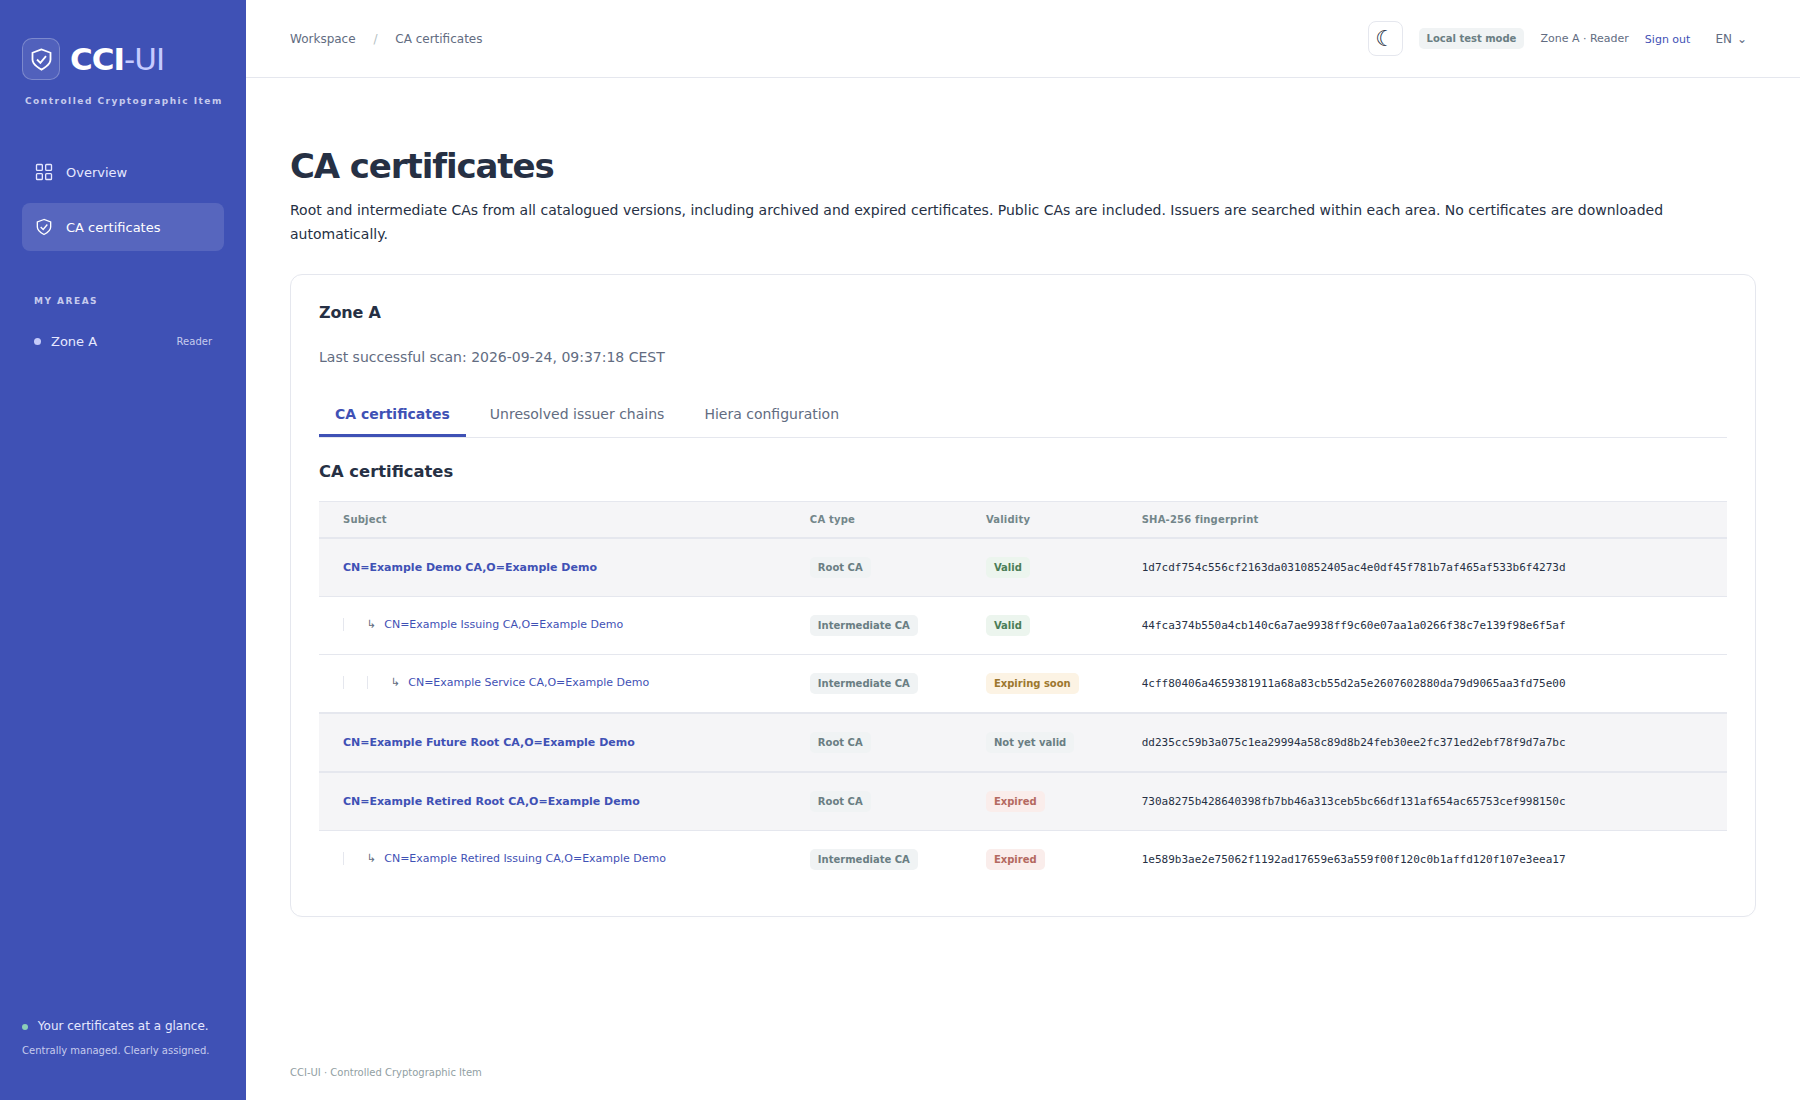
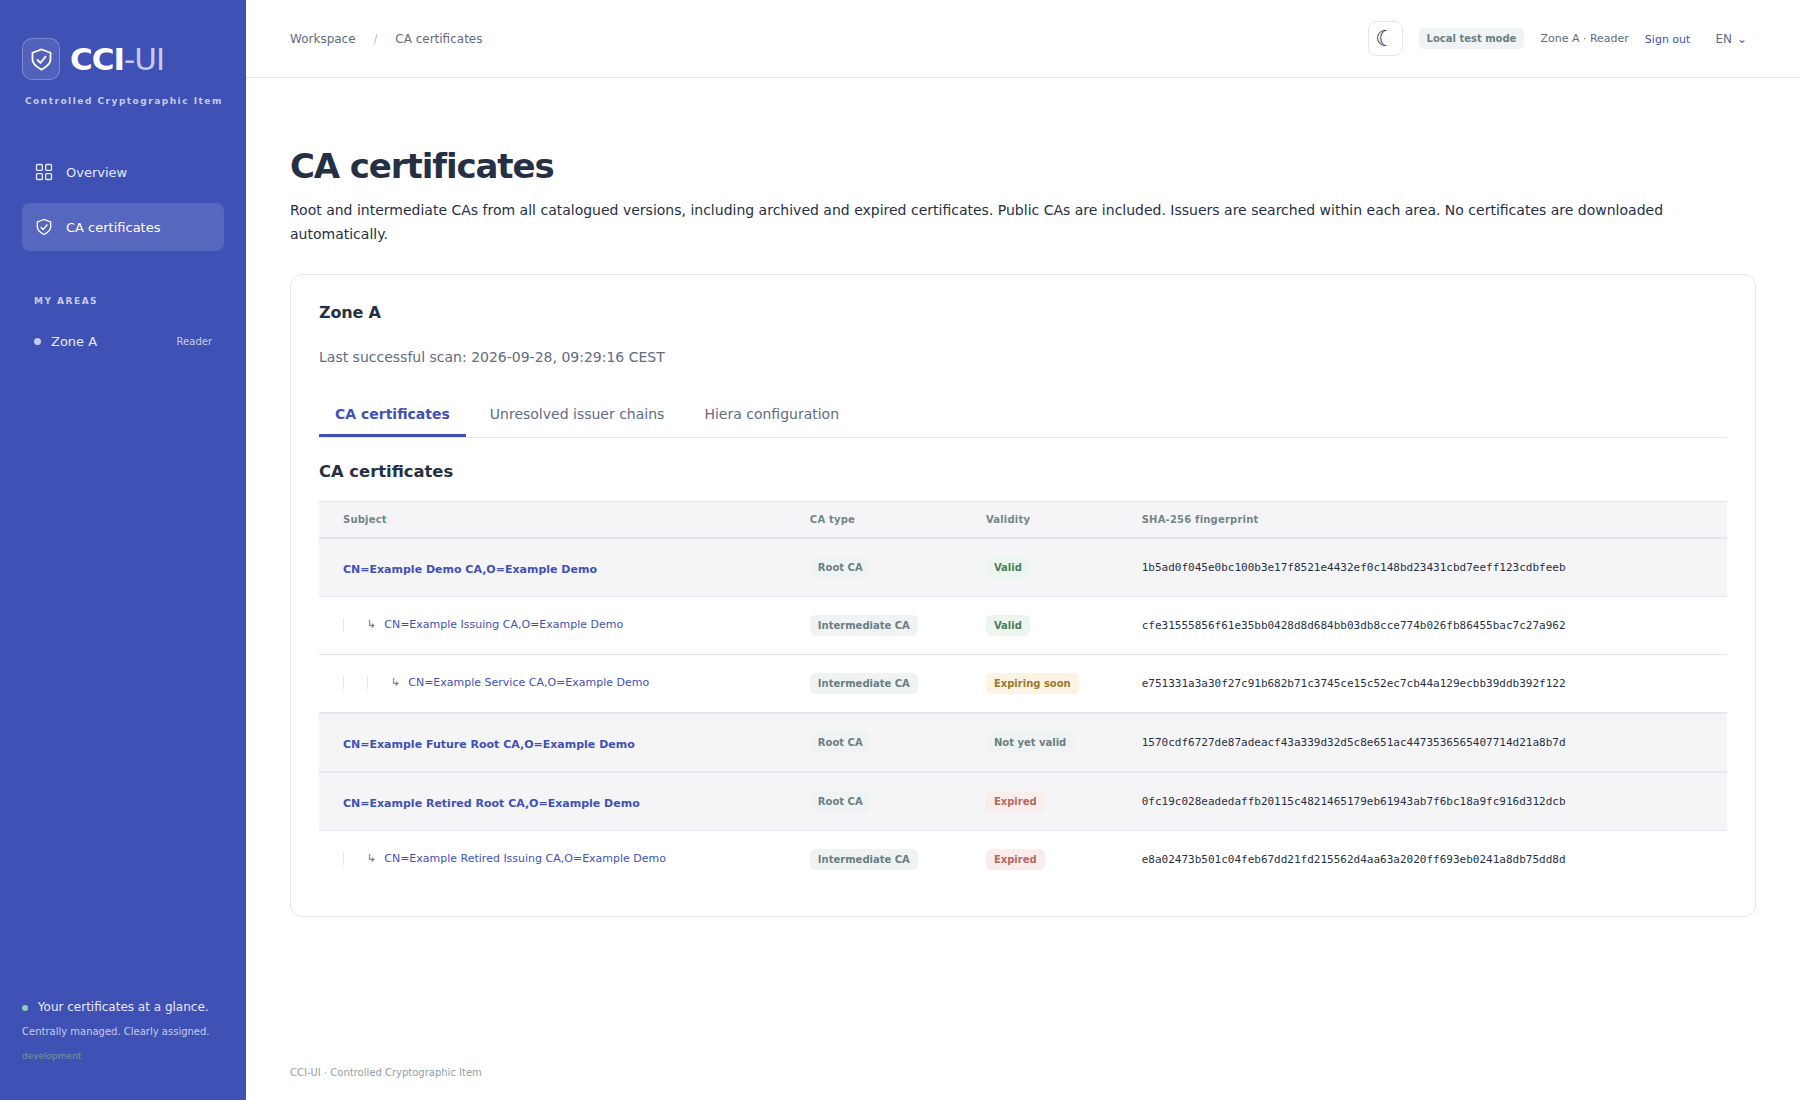
feat(certificates): configure expiry warnings with a 10-day default

diff --git a/test/integration/certificate_expiry_test.rb b/test/integration/certificate_expiry_test.rb
@@ -1,0 +1,53 @@
+# frozen_string_literal: true
+
+require "test_helper"
+
+class CertificateExpiryTest < ActionDispatch::IntegrationTest
+  setup do
+    @previous = ENV.fetch("CCI_CERTIFICATE_EXPIRY_WARNING_DAYS", nil)
+    ENV.delete("CCI_CERTIFICATE_EXPIRY_WARNING_DAYS")
+  end
+
+  teardown do
+    ENV["CCI_CERTIFICATE_EXPIRY_WARNING_DAYS"] = @previous
+  end
+
+  test "warning period defaults and invalid configuration" do
+    assert_equal 10, CertificateExpiryConfiguration.warning_days({})
+    assert_equal 10, CertificateExpiryConfiguration.warning_days("CCI_CERTIFICATE_EXPIRY_WARNING_DAYS" => " ")
+    %w[0 -1 1.5 invalid].each do |value|
+      assert_raises(ArgumentError) do
+        CertificateExpiryConfiguration.warning_days("CCI_CERTIFICATE_EXPIRY_WARNING_DAYS" => value)
+      end
+    end
+  end
+
+  test "badges search statistics and translations share the configured warning period" do
+    travel_to Time.zone.local(2026, 9, 28, 12) do
+      post local_login_path, params: { identity: "zone_a_reader" }
+      record = store(issue.first)
+      record.update!(not_before: 1.day.ago, not_after: 15.days.from_now)
+      assert_equal "valid", record.status_key
+      assert_empty CertificateSearch.call(Certificate.all, status: "soon")
+      get certificates_path
+      assert_select ".stat-card small", text: "Innerhalb der nächsten 10 Tage"
+
+      ENV["CCI_CERTIFICATE_EXPIRY_WARNING_DAYS"] = "20"
+      assert_equal "expiring", record.status_key
+      assert_equal [record.id], CertificateSearch.call(Certificate.all, status: "soon").pluck(:id)
+      get certificates_path
+      assert_select ".stat-card", text: /Läuft bald ab\s*1\s*Innerhalb der nächsten 20 Tage/
+      get certificates_path, headers: { "HTTP_ACCEPT_LANGUAGE" => "en" }
+      assert_select ".stat-card small", text: "Within the next 20 days"
+
+      record.update!(not_after: 20.days.from_now)
+      assert_equal "valid", record.status_key
+      assert_empty CertificateSearch.call(Certificate.all, status: "soon")
+      record.update!(not_after: Time.current)
+      assert_equal "expired", record.status_key
+      record.update!(not_before: 1.day.from_now, not_after: 2.days.from_now)
+      assert_equal "future", record.status_key
+      assert_empty CertificateSearch.call(Certificate.all, status: "soon")
+    end
+  end
+end

diff --git a/app/controllers/certificates_controller.rb b/app/controllers/certificates_controller.rb
@@ -5,8 +5,7 @@ class CertificatesController < ApplicationController
   def index
     visible = Certificate.visible_to(current_identity)
     @stats = { total: visible.where(active: true, archived: false).count,
-               expiring: visible.where(active: true, archived: false).where("not_after > ? AND not_after < ?", Time.current,
-                 30.days.from_now).count,
+               expiring: CertificateSearch.filter_validity(visible.where(active: true, archived: false), "soon").count,
                expired: visible.where(active: true, archived: false).where("not_after <= ?", Time.current).count }
     results = CertificateSearch.call(visible, params)
     @total = results.count

diff --git a/script/screenshots/seed.rb b/script/screenshots/seed.rb
@@ -96,7 +96,7 @@ abort "Demo host mapping failed" unless portal.reload.puppetdb_hosts.size == 3
 puts "Synthetic screenshot inventory ready: #{Certificate.count} certificates, #{rows.size} hosts."
 
 # Add a small synthetic hierarchy specifically for the CA documentation page.
-nested, = issue("Example Service CA", serial: 102, days: 18,
+nested, = issue("Example Service CA", serial: 102, days: 8,
   issuer: issuing, issuer_key: issuing_key, ca: true)
 retired_root, retired_key = issue("Example Retired Root CA", serial: 103, days: -10, ca: true)
 retired_issuer, = issue("Example Retired Issuing CA", serial: 104, days: -5,

diff --git a/app/services/certificate_search.rb b/app/services/certificate_search.rb
@@ -29,8 +29,8 @@ class CertificateSearch
     now = Time.current
     case status
     when "expired" then scope.where("not_after <= ?", now)
-    when "soon" then scope.where("not_before <= ? AND not_after > ? AND not_after <= ?", now, now,
-      now + 30.days)
+    when "soon" then scope.where("not_before <= ? AND not_after > ? AND not_after < ?", now, now,
+      now + CertificateExpiryConfiguration.warning_days.days)
     when "valid" then scope.where("not_before <= ? AND not_after > ?", now, now)
     when "future" then scope.where("not_before > ?", now)
     else scope

diff --git a/lib/certificate_expiry_configuration.rb b/lib/certificate_expiry_configuration.rb
@@ -1,0 +1,12 @@
+# frozen_string_literal: true
+
+# Shared warning period for certificate badges, statistics and searches.
+module CertificateExpiryConfiguration
+  def self.warning_days(environment = ENV)
+    value = environment.fetch("CCI_CERTIFICATE_EXPIRY_WARNING_DAYS", "").to_s.strip
+    return 10 if value.empty?
+    return value.to_i if value.match?(/\A[0-9]+\z/) && value.to_i.positive?
+
+    raise ArgumentError, "CCI_CERTIFICATE_EXPIRY_WARNING_DAYS must be a positive integer."
+  end
+end

diff --git a/app/models/certificate.rb b/app/models/certificate.rb
@@ -21,7 +21,7 @@ class Certificate < ApplicationRecord
   def status_key
     return "future" if not_before > Time.current
     return "expired" if not_after <= Time.current
-    return "expiring" if not_after < 30.days.from_now
+    return "expiring" if not_after < CertificateExpiryConfiguration.warning_days.days.from_now
 
     "valid"
   end

diff --git a/docs/environment.md b/docs/environment.md
@@ -20,6 +20,7 @@ export CCI_AREA_KEYS='{"zone_a":"<existing Base64 key>","zone_b":"<existing Base
 | `CCI_LEGACY_PATHS` | JSON object mapping any subset of the configured areas to absolute directories inside the container. Default: `{}` (no disk inventory). Multiple areas may have independent roots. |
 | `CCI_AREA_KEYS` | JSON object mapping area IDs to Base64-encoded, exactly 32-byte encryption keys. Omitted or empty means no map entries. Required for private-key operations unless the fallback below supplies the key. |
 | `CCI_CERTIFICATE_AREA_MODE` | `multiple` (default) allows one imported or CSR-issued certificate in several areas. `single` requires exactly one selected area and rejects a fingerprint already retained in another area. |
+| `CCI_CERTIFICATE_EXPIRY_WARNING_DAYS` | Positive integer warning period in days. Defaults to `10` when unset or blank. Controls certificate validity badges, the overview warning count and the expiring-soon filter, including CA certificate badges. Invalid values are rejected. Restart the application after changing it. |
 | `<UPPERCASE_AREA_ID>_KEY` | Existing per-area fallback, for example `ZONE_A_KEY`. Used only when the area has no entry in `CCI_AREA_KEYS`. Must be injected into the application process. |
 
 Malformed area/path JSON, unknown path area IDs and relative paths prevent
